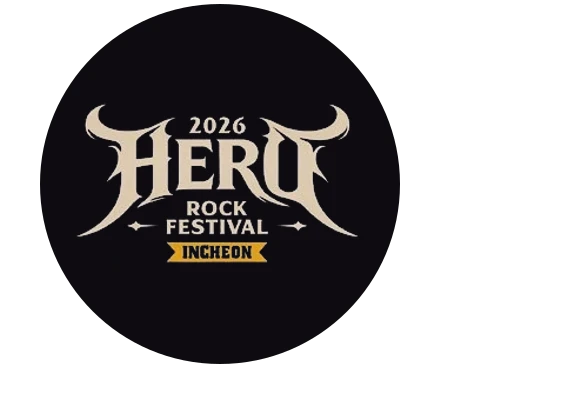
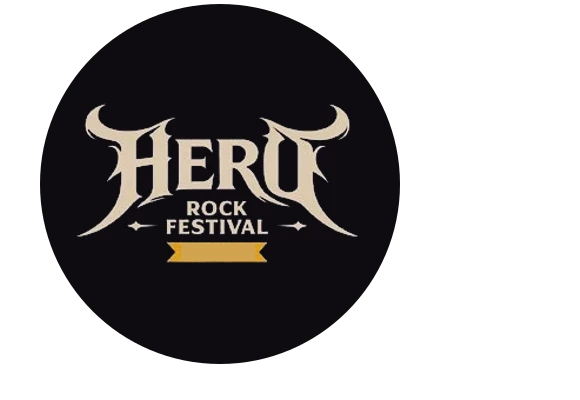
fix(art): 페스티벌 로고에서 연도 빼기
- 히어로 락: 2026·INCHEON 을 빼고 노란 라벨만
- JUMF: 연도를 빼고 JUMF 를 막대 가운데 아래로
- 그민페 배지: 2·0·2·6 빼기
- 제목 그림이 바뀌어 목록 마크도 다시 만듦

Changed region(s): [[0.3103, 0.6, 0.4345, 0.66], [0.3103, 0.27, 0.4345, 0.33]]

diff --git a/docs/HISTORY.md b/docs/HISTORY.md
@@ -390,3 +390,11 @@
   - 달력 칸에 있던 날짜는 줄의 두 번째 줄에 보이게("11.20 (금) – 11.22 (일) · 킨텍스 …", 전에는 "3일 · 장소"). 장소가 길면 두 줄이 된다.
   - 그민페 마크의 둥근 날짜 글씨(10.17-18)와 2·0·2·6 은 2026 배지 그대로다 — 배지가 바뀌면 다시 그린다.
 - 확인: 테스트(새 4개) 통과, 빌드 통과. 375px 에서 내 페스티벌·둘러보기(낮·밤 테마), 끝난 페스티벌 회색, 새 소식 점 자리를 봤다(이미지 사용자에게 보냄).
+
+**로고에서 연도 빼기 (사용자: "로고 전부에 연도가 박혀있으면 그부분만 빼주세요. JUMP는 연도빼면 공간이 비니까 가운데정렬. 히락페는 인천 고정도 아니라서 그것도 그냥 노란라벨만 남겨주세요")**
+- 제목 그림과 목록 마크는 페스티벌 코드 단위(해마다 같음)라 연도를 뺐다. 펜타포트(별)·원더리벳(로봇)은 연도가 없어 그대로.
+- 히어로 락(`build-herorock.mjs`): 뿔 사이 "2026"을 지우고, 금색 라벨 안 "INCHEON" 글자 자리를 라벨 금색(라벨 위아래 줄에서 읽은 평균색)으로 칠해 빈 라벨만 남겼다.
+- JUMF(`build-jumf.mjs`): 공식 로고에서 막대와 "JUMF" 글자만 떼어 "JUMF"를 막대 가운데 아래로.
+- 그민페 마크(손으로 그린 배지): 흰 띠의 2·0·2·6 을 뺐다. 흰 띠는 배지 모양대로 남겼다.
+  - 스스로 판단: 배지 위쪽 둥근 글씨의 날짜(10.17-18 · OLYMPIC PARK)는 "연도"가 아니어서 그대로 두었다 — 사용자에게 물음.
+- 마크는 바뀐 제목 그림에서 다시 만들었다(`build-marks.mjs`). 확인: 375px 둘러보기 목록, 두 제목 그림 확대(지운 자리에 남은 것 없음). 이미지 사용자에게 보냄.

diff --git a/docs/AGENTS.md b/docs/AGENTS.md
@@ -34,4 +34,5 @@
 - 공식 안내 이미지(체크리스트, 행사장 안내도)는 `src/assets/guides/guide-*.webp` 로 넣고 카탈로그의 `guides` 에 등록한다. 용량이 커서 설치 때 미리 받지 않고(서비스워커 globIgnores) 처음 볼 때 캐시한다 **지도 그림은 스크립트로만 바꾼다**(SVG 를 직접 고치지 않는다). 지형 출처 OSM 은 ODbL 이라 지도에 출처 표기를 유지한다
 - 제목 오른쪽 그림(페스티벌 디자인 테마): `src/assets/art/<코드>.*`. GMF·펜타포트는 손으로 쓴 SVG, 히어로 락·JUMF 는 공식 로고 이미지로 만드는 스크립트(`node scripts/art/build-<코드>.mjs`, 원본은 `art-src/<코드>/` 또는 저장소 안 포스터). 그림을 바꿀 때는 스크립트를 고쳐 다시 만든다
 - 페스티벌 목록의 마크(로고만, 정사각): `src/assets/mark/<코드>.*`. 제목 그림에서 로고만 잘라 만든다(`node scripts/art/build-marks.mjs` — 제목 그림을 바꾸면 다시 돌린다). GMF 는 제목 그림이 앱 디자인이라 인스타 프로필의 분홍 배지를 손으로 그린 SVG(`src/assets/mark/gmf.svg`). 새 페스티벌은 테마의 `mark` 를 채운다
+- 제목 그림·마크는 해마다 같으니 연도처럼 회차마다 바뀌는 글자는 넣지 않는다(사용자 지시 2026-10-27: 로고의 연도는 빼고, 히어로 락의 "INCHEON" 처럼 매년 같지 않은 장소도 뺀다)
 - 화면 확인: Claude 앱 미리보기 서버는 `~/Documents` 를 못 읽는다 → 로컬 사본에서 `npm run build` 후 `dist/` 를 세션 폴더로 복사해 미리보기

diff --git a/docs/TODO.md b/docs/TODO.md
@@ -87,6 +87,7 @@ v0.1 배포 — https://crestedblue.github.io/festival-log/ (최신 앱 커밋: 
 
 ### 2026.10.27
 
+- (페스티벌) 로고에서 연도 빼기: 히어로 락은 "2026"과 "INCHEON"을 빼고 노란 라벨만, JUMF 는 "JUMF"만 가운데로, 그민페 배지는 2·0·2·6 을 뺌(제목 그림과 목록 마크 모두)
 - (관리) 페스티벌 줄의 달력 칸 대신 페스티벌 로고 마크(그민페는 인스타 프로필의 분홍 배지), 끝난 페스티벌은 마크를 회색으로. 날짜는 줄 글자로("10.17 (토) – 10.18 (일) · 올림픽공원")
 - (지도) 큰 지도 길 테두리 삭제, 히어로 락·원더리벳 역 출구(노란 번호, 목록에 역마다 한 줄)
 - (관리) 아티스트 다른 이름(공식 한·영 표기, 출처 있는 약칭)으로도 찾기, 내 페스티벌에 연도 칩·달 묶음
